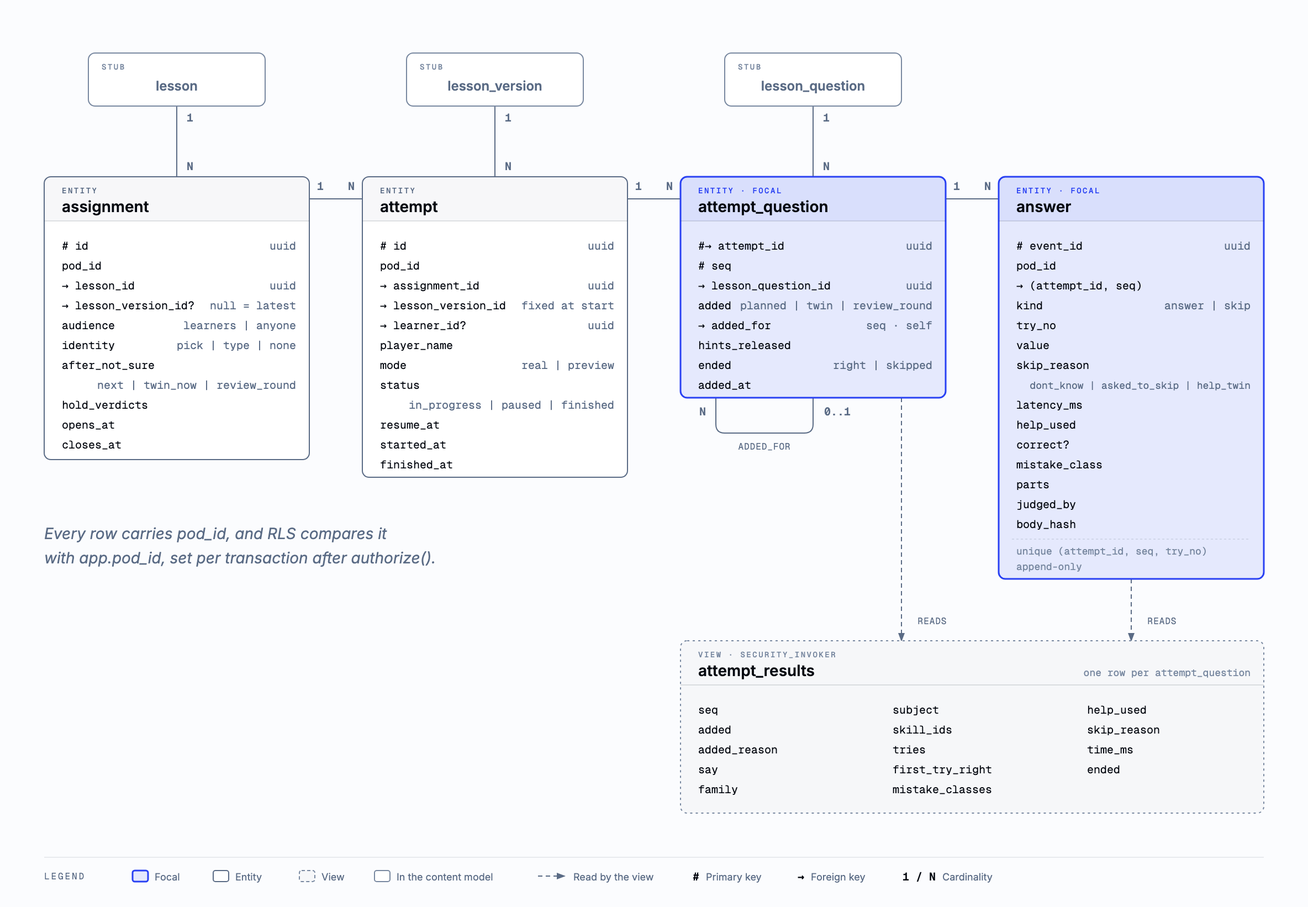
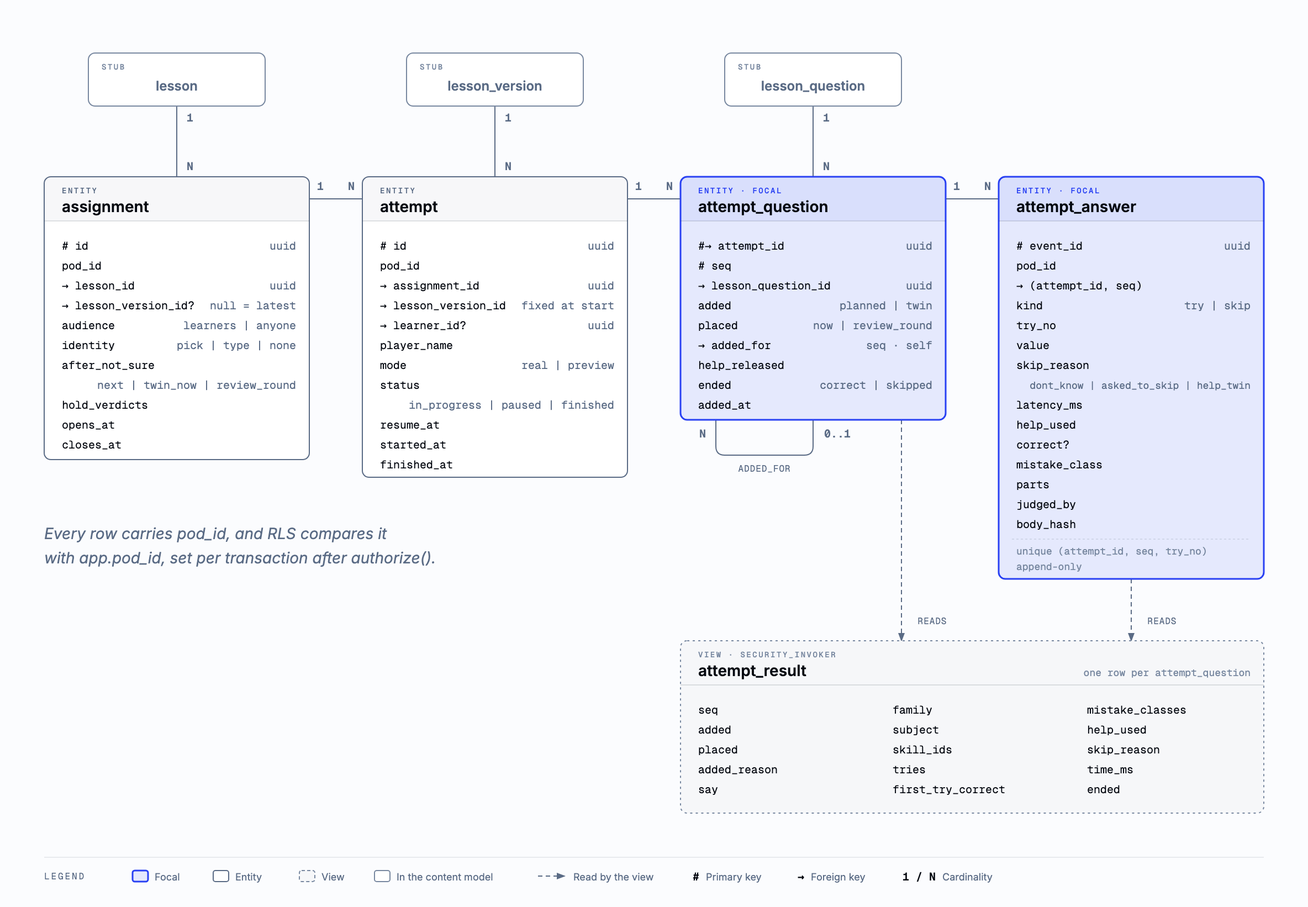
dl-e8ov.2.32.1: data model and API rules, and the renames they make

diff --git a/docs/research/assets/core-v0-play.html b/docs/research/assets/core-v0-play.html
@@ -63,7 +63,7 @@
     <h1>Core v0: play and evidence</h1>
     <svg viewBox="0 0 1184 820" xmlns="http://www.w3.org/2000/svg" role="img" aria-labelledby="core-v0-play-title core-v0-play-desc">
       <title id="core-v0-play-title">Core v0: play and evidence</title>
-      <desc id="core-v0-play-desc">Entity-relationship model of core v0 play: an assignment of a lesson opens attempts, each attempt holds an ordered list of attempt questions, each question collects append-only answers, and the attempt_results view reads both.</desc>
+      <desc id="core-v0-play-desc">Entity-relationship model of core v0 play: an assignment of a lesson opens attempts, each attempt holds an ordered list of attempt questions, each question collects append-only attempt answers, and the attempt_result view reads both.</desc>
       <defs>
         <marker id="arrow" markerWidth="8" markerHeight="6" refX="7" refY="3" orient="auto"><polygon points="0 0, 8 3, 0 6" fill="#5a6b85"/></marker>
         <marker id="arrow-accent" markerWidth="8" markerHeight="6" refX="7" refY="3" orient="auto"><polygon points="0 0, 8 3, 0 6" fill="#2941f3"/></marker>
@@ -77,8 +77,8 @@
       <line x1="280" y1="180" x2="328" y2="180" stroke="#5a6b85" stroke-width="1"/>
       <line x1="568" y1="180" x2="616" y2="180" stroke="#5a6b85" stroke-width="1"/>
       <line x1="856" y1="180" x2="904" y2="180" stroke="#5a6b85" stroke-width="1"/>
-      <path d="M 648,360 V 384 Q 648,392 656,392 H 728 Q 736,392 736,384 V 360" fill="none" stroke="#5a6b85" stroke-width="1"/>
-      <line x1="816" y1="360" x2="816" y2="580" stroke="#5a6b85" stroke-width="1" stroke-dasharray="4,3" marker-end="url(#arrow)"/>
+      <path d="M 648,380 V 404 Q 648,412 656,412 H 728 Q 736,412 736,404 V 380" fill="none" stroke="#5a6b85" stroke-width="1"/>
+      <line x1="816" y1="380" x2="816" y2="580" stroke="#5a6b85" stroke-width="1" stroke-dasharray="4,3" marker-end="url(#arrow)"/>
       <line x1="1024" y1="524" x2="1024" y2="580" stroke="#5a6b85" stroke-width="1" stroke-dasharray="4,3" marker-end="url(#arrow)"/>
       <!-- cardinality and labels -->
       <rect x="166" y="100" width="12" height="12" rx="2" fill="#fbfcfe"/>
@@ -105,12 +105,12 @@
       <text x="866.0" y="172" fill="#5a6b85" font-size="10" font-family="'Geist Mono', ui-monospace, monospace" font-weight="600" text-anchor="middle">1</text>
       <rect x="888" y="162" width="12" height="12" rx="2" fill="#fbfcfe"/>
       <text x="894.0" y="172" fill="#5a6b85" font-size="10" font-family="'Geist Mono', ui-monospace, monospace" font-weight="600" text-anchor="middle">N</text>
-      <rect x="630" y="366" width="12" height="12" rx="2" fill="#fbfcfe"/>
-      <text x="636.0" y="376" fill="#5a6b85" font-size="10" font-family="'Geist Mono', ui-monospace, monospace" font-weight="600" text-anchor="middle">N</text>
-      <rect x="742" y="366" width="32" height="12" rx="2" fill="#fbfcfe"/>
-      <text x="758.0" y="376" fill="#5a6b85" font-size="10" font-family="'Geist Mono', ui-monospace, monospace" font-weight="600" text-anchor="middle">0..1</text>
-      <rect x="660.0" y="398" width="64" height="12" rx="2" fill="#fbfcfe"/>
-      <text x="692.0" y="407" fill="#5a6b85" font-size="8" font-family="'Geist Mono', ui-monospace, monospace" text-anchor="middle" letter-spacing="0.06em">ADDED_FOR</text>
+      <rect x="630" y="386" width="12" height="12" rx="2" fill="#fbfcfe"/>
+      <text x="636.0" y="396" fill="#5a6b85" font-size="10" font-family="'Geist Mono', ui-monospace, monospace" font-weight="600" text-anchor="middle">N</text>
+      <rect x="742" y="386" width="32" height="12" rx="2" fill="#fbfcfe"/>
+      <text x="758.0" y="396" fill="#5a6b85" font-size="10" font-family="'Geist Mono', ui-monospace, monospace" font-weight="600" text-anchor="middle">0..1</text>
+      <rect x="660.0" y="418" width="64" height="12" rx="2" fill="#fbfcfe"/>
+      <text x="692.0" y="427" fill="#5a6b85" font-size="8" font-family="'Geist Mono', ui-monospace, monospace" text-anchor="middle" letter-spacing="0.06em">ADDED_FOR</text>
       <rect x="824" y="556" width="40" height="12" rx="2" fill="#fbfcfe"/>
       <text x="844" y="565" fill="#5a6b85" font-size="8" font-family="'Geist Mono', ui-monospace, monospace" text-anchor="middle" letter-spacing="0.06em">READS</text>
       <rect x="1032" y="556" width="40" height="12" rx="2" fill="#fbfcfe"/>
@@ -173,8 +173,8 @@
       <text x="344" y="388" fill="#040810" font-size="10" font-family="'Geist Mono', ui-monospace, monospace">resume_at</text>
       <text x="344" y="406" fill="#040810" font-size="10" font-family="'Geist Mono', ui-monospace, monospace">started_at</text>
       <text x="344" y="424" fill="#040810" font-size="10" font-family="'Geist Mono', ui-monospace, monospace">finished_at</text>
-      <rect x="616" y="160" width="240" height="200" rx="6" fill="#fbfcfe"/>
-      <rect x="616" y="160" width="240" height="200" rx="6" fill="rgba(41,65,243,0.10)" stroke="#2941f3" stroke-width="1.5"/>
+      <rect x="616" y="160" width="240" height="220" rx="6" fill="#fbfcfe"/>
+      <rect x="616" y="160" width="240" height="220" rx="6" fill="rgba(41,65,243,0.10)" stroke="#2941f3" stroke-width="1.5"/>
       <path d="M 622,160 H 850 Q 856,160 856,166 V 200 H 616 V 166 Q 616,160 622,160 Z" fill="rgba(41,65,243,0.06)"/>
       <line x1="616" y1="200" x2="856" y2="200" stroke="rgba(9,22,40,0.12)" stroke-width="1"/>
       <text x="632" y="175" fill="#2941f3" font-size="7" font-family="'Geist Mono', ui-monospace, monospace" font-weight="500" letter-spacing="0.18em">ENTITY · FOCAL</text>
@@ -185,25 +185,27 @@
       <text x="632" y="262" fill="#040810" font-size="10" font-family="'Geist Mono', ui-monospace, monospace">→ lesson_question_id</text>
       <text x="844" y="262" fill="#5a6b85" font-size="10" font-family="'Geist Mono', ui-monospace, monospace" text-anchor="end">uuid</text>
       <text x="632" y="280" fill="#040810" font-size="10" font-family="'Geist Mono', ui-monospace, monospace">added</text>
-      <text x="844" y="280" fill="#5a6b85" font-size="10" font-family="'Geist Mono', ui-monospace, monospace" text-anchor="end">planned | twin | review_round</text>
-      <text x="632" y="298" fill="#040810" font-size="10" font-family="'Geist Mono', ui-monospace, monospace">→ added_for</text>
-      <text x="844" y="298" fill="#5a6b85" font-size="10" font-family="'Geist Mono', ui-monospace, monospace" text-anchor="end">seq · self</text>
-      <text x="632" y="316" fill="#040810" font-size="10" font-family="'Geist Mono', ui-monospace, monospace">hints_released</text>
-      <text x="632" y="334" fill="#040810" font-size="10" font-family="'Geist Mono', ui-monospace, monospace">ended</text>
-      <text x="844" y="334" fill="#5a6b85" font-size="10" font-family="'Geist Mono', ui-monospace, monospace" text-anchor="end">right | skipped</text>
-      <text x="632" y="352" fill="#040810" font-size="10" font-family="'Geist Mono', ui-monospace, monospace">added_at</text>
+      <text x="844" y="280" fill="#5a6b85" font-size="10" font-family="'Geist Mono', ui-monospace, monospace" text-anchor="end">planned | twin</text>
+      <text x="632" y="298" fill="#040810" font-size="10" font-family="'Geist Mono', ui-monospace, monospace">placed</text>
+      <text x="844" y="298" fill="#5a6b85" font-size="10" font-family="'Geist Mono', ui-monospace, monospace" text-anchor="end">now | review_round</text>
+      <text x="632" y="316" fill="#040810" font-size="10" font-family="'Geist Mono', ui-monospace, monospace">→ added_for</text>
+      <text x="844" y="316" fill="#5a6b85" font-size="10" font-family="'Geist Mono', ui-monospace, monospace" text-anchor="end">seq · self</text>
+      <text x="632" y="334" fill="#040810" font-size="10" font-family="'Geist Mono', ui-monospace, monospace">help_released</text>
+      <text x="632" y="352" fill="#040810" font-size="10" font-family="'Geist Mono', ui-monospace, monospace">ended</text>
+      <text x="844" y="352" fill="#5a6b85" font-size="10" font-family="'Geist Mono', ui-monospace, monospace" text-anchor="end">correct | skipped</text>
+      <text x="632" y="370" fill="#040810" font-size="10" font-family="'Geist Mono', ui-monospace, monospace">added_at</text>
       <rect x="904" y="160" width="240" height="364" rx="6" fill="#fbfcfe"/>
       <rect x="904" y="160" width="240" height="364" rx="6" fill="rgba(41,65,243,0.10)" stroke="#2941f3" stroke-width="1.5"/>
       <path d="M 910,160 H 1138 Q 1144,160 1144,166 V 200 H 904 V 166 Q 904,160 910,160 Z" fill="rgba(41,65,243,0.06)"/>
       <line x1="904" y1="200" x2="1144" y2="200" stroke="rgba(9,22,40,0.12)" stroke-width="1"/>
       <text x="920" y="175" fill="#2941f3" font-size="7" font-family="'Geist Mono', ui-monospace, monospace" font-weight="500" letter-spacing="0.18em">ENTITY · FOCAL</text>
-      <text x="920" y="192" fill="#040810" font-size="14" font-family="'Inter', system-ui, sans-serif" font-weight="600">answer</text>
+      <text x="920" y="192" fill="#040810" font-size="14" font-family="'Inter', system-ui, sans-serif" font-weight="600">attempt_answer</text>
       <text x="920" y="226" fill="#040810" font-size="10" font-family="'Geist Mono', ui-monospace, monospace"># event_id</text>
       <text x="1132" y="226" fill="#5a6b85" font-size="10" font-family="'Geist Mono', ui-monospace, monospace" text-anchor="end">uuid</text>
       <text x="920" y="244" fill="#040810" font-size="10" font-family="'Geist Mono', ui-monospace, monospace">pod_id</text>
       <text x="920" y="262" fill="#040810" font-size="10" font-family="'Geist Mono', ui-monospace, monospace">→ (attempt_id, seq)</text>
       <text x="920" y="280" fill="#040810" font-size="10" font-family="'Geist Mono', ui-monospace, monospace">kind</text>
-      <text x="1132" y="280" fill="#5a6b85" font-size="10" font-family="'Geist Mono', ui-monospace, monospace" text-anchor="end">answer | skip</text>
+      <text x="1132" y="280" fill="#5a6b85" font-size="10" font-family="'Geist Mono', ui-monospace, monospace" text-anchor="end">try | skip</text>
       <text x="920" y="298" fill="#040810" font-size="10" font-family="'Geist Mono', ui-monospace, monospace">try_no</text>
       <text x="920" y="316" fill="#040810" font-size="10" font-family="'Geist Mono', ui-monospace, monospace">value</text>
       <text x="920" y="334" fill="#040810" font-size="10" font-family="'Geist Mono', ui-monospace, monospace">skip_reason</text>
@@ -222,22 +224,23 @@
       <rect x="616" y="580" width="528" height="156" rx="6" fill="rgba(4,8,16,0.02)" stroke="#7888a0" stroke-width="1" stroke-dasharray="2,3"/>
       <line x1="616" y1="620" x2="1144" y2="620" stroke="rgba(9,22,40,0.12)" stroke-width="1"/>
       <text x="632" y="595" fill="#7888a0" font-size="7" font-family="'Geist Mono', ui-monospace, monospace" font-weight="500" letter-spacing="0.18em">VIEW · SECURITY_INVOKER</text>
-      <text x="632" y="612" fill="#040810" font-size="14" font-family="'Inter', system-ui, sans-serif" font-weight="600">attempt_results</text>
+      <text x="632" y="612" fill="#040810" font-size="14" font-family="'Inter', system-ui, sans-serif" font-weight="600">attempt_result</text>
       <text x="1132" y="612" fill="#7888a0" font-size="9" font-family="'Geist Mono', ui-monospace, monospace" text-anchor="end">one row per attempt_question</text>
       <text x="632" y="646" fill="#040810" font-size="10" font-family="'Geist Mono', ui-monospace, monospace">seq</text>
       <text x="632" y="664" fill="#040810" font-size="10" font-family="'Geist Mono', ui-monospace, monospace">added</text>
-      <text x="632" y="682" fill="#040810" font-size="10" font-family="'Geist Mono', ui-monospace, monospace">added_reason</text>
-      <text x="632" y="700" fill="#040810" font-size="10" font-family="'Geist Mono', ui-monospace, monospace">say</text>
-      <text x="632" y="718" fill="#040810" font-size="10" font-family="'Geist Mono', ui-monospace, monospace">family</text>
-      <text x="808" y="646" fill="#040810" font-size="10" font-family="'Geist Mono', ui-monospace, monospace">subject</text>
-      <text x="808" y="664" fill="#040810" font-size="10" font-family="'Geist Mono', ui-monospace, monospace">skill_ids</text>
-      <text x="808" y="682" fill="#040810" font-size="10" font-family="'Geist Mono', ui-monospace, monospace">tries</text>
-      <text x="808" y="700" fill="#040810" font-size="10" font-family="'Geist Mono', ui-monospace, monospace">first_try_right</text>
-      <text x="808" y="718" fill="#040810" font-size="10" font-family="'Geist Mono', ui-monospace, monospace">mistake_classes</text>
-      <text x="984" y="646" fill="#040810" font-size="10" font-family="'Geist Mono', ui-monospace, monospace">help_used</text>
-      <text x="984" y="664" fill="#040810" font-size="10" font-family="'Geist Mono', ui-monospace, monospace">skip_reason</text>
-      <text x="984" y="682" fill="#040810" font-size="10" font-family="'Geist Mono', ui-monospace, monospace">time_ms</text>
-      <text x="984" y="700" fill="#040810" font-size="10" font-family="'Geist Mono', ui-monospace, monospace">ended</text>
+      <text x="632" y="682" fill="#040810" font-size="10" font-family="'Geist Mono', ui-monospace, monospace">placed</text>
+      <text x="632" y="700" fill="#040810" font-size="10" font-family="'Geist Mono', ui-monospace, monospace">added_reason</text>
+      <text x="632" y="718" fill="#040810" font-size="10" font-family="'Geist Mono', ui-monospace, monospace">say</text>
+      <text x="808" y="646" fill="#040810" font-size="10" font-family="'Geist Mono', ui-monospace, monospace">family</text>
+      <text x="808" y="664" fill="#040810" font-size="10" font-family="'Geist Mono', ui-monospace, monospace">subject</text>
+      <text x="808" y="682" fill="#040810" font-size="10" font-family="'Geist Mono', ui-monospace, monospace">skill_ids</text>
+      <text x="808" y="700" fill="#040810" font-size="10" font-family="'Geist Mono', ui-monospace, monospace">tries</text>
+      <text x="808" y="718" fill="#040810" font-size="10" font-family="'Geist Mono', ui-monospace, monospace">first_try_correct</text>
+      <text x="984" y="646" fill="#040810" font-size="10" font-family="'Geist Mono', ui-monospace, monospace">mistake_classes</text>
+      <text x="984" y="664" fill="#040810" font-size="10" font-family="'Geist Mono', ui-monospace, monospace">help_used</text>
+      <text x="984" y="682" fill="#040810" font-size="10" font-family="'Geist Mono', ui-monospace, monospace">skip_reason</text>
+      <text x="984" y="700" fill="#040810" font-size="10" font-family="'Geist Mono', ui-monospace, monospace">time_ms</text>
+      <text x="984" y="718" fill="#040810" font-size="10" font-family="'Geist Mono', ui-monospace, monospace">ended</text>
       <text x="40" y="488" fill="#5a6b85" font-size="14" font-family="'Inter', system-ui, sans-serif" font-style="italic">Every row carries pod_id, and RLS compares it</text>
       <text x="40" y="510" fill="#5a6b85" font-size="14" font-family="'Inter', system-ui, sans-serif" font-style="italic">with app.pod_id, set per transaction after authorize().</text>
       <line x1="40" y1="776" x2="1144" y2="776" stroke="rgba(9,22,40,0.10)" stroke-width="0.8"/>
@@ -259,7 +262,7 @@
       <text x="817.0" y="797" fill="#040810" font-size="10" font-family="'Geist Mono', ui-monospace, monospace" font-weight="600">1 / N</text>
       <text x="853.0" y="797" fill="#5a6b85" font-size="9" font-family="'Inter', system-ui, sans-serif">Cardinality</text>
     </svg>
-    <p class="caption">Five entities and three stubs from the content model. attempt_question and answer are the evidence a parent sees.</p>
+    <p class="caption">Five entities and three stubs from the content model. attempt_question and attempt_answer are the evidence a parent sees.</p>
   </div>
 </body>
 </html>

diff --git a/docs/worklog/dl-e8ov.2.32/2026-10-27-wave-1.md b/docs/worklog/dl-e8ov.2.32/2026-10-27-wave-1.md
@@ -7,7 +7,7 @@ that wrote this, 2026-10-27. Wave label: `wave:dl-e8ov.2.32-1`.
 
 The playground's player plays a lesson from Postgres through a local `apps/api` under `/api/v1`.
 After the lesson it lists every attempted question, with a basic analysis computed by the
-`attempt_results` view. The model and the names are in `docs/research/core-data-model.md`
+`attempt_result` view. The model and the names are in `docs/research/core-data-model.md`
 (`dl-e8ov.5.34`), amended in the lead's PR to the decisions below.
 
 ![Wave 1 order](../../research/assets/wave-1-order.svg)
@@ -23,6 +23,7 @@ were answered on 2026-10-27, so no lane waits on an owner decision.
 - `2026-10-27-the-v0-attempt-rules-questions-only-on-the-wire-the-api-v1-route`
 - `2026-10-27-a-lesson-question-carries-the-help-ladder-its-credit-and-structu`
 - `2026-10-27-wave-1-of-the-core-data-model-lands-every-data-model-decision-in`
+- `2026-10-27-jadwigo-s-data-model-and-api-follow-one-set-of-naming-and-design`: the rules in `packages/contracts/RULES.md`, and the renames below
 - Those the epic cites already: `2026-10-27-a-lesson-is-a-dynamic-set-of-lesson-questions-that-can-grow-duri`,
   `2026-10-27-v0-of-the-data-model-is-lesson-assignment-and-attempt-with-their`,
   `2026-10-27-jadwigo-s-rest-api-is-versioned-under-api-v1-and-names-put-the-o`,
@@ -36,12 +37,12 @@ In short:
 | Topic | In force |
 | --- | --- |
 | Ids | `uuid` columns, v4 by default (`gen_random_uuid()`). On the wire: `<prefix>` and 26 lowercase Crockford base32 characters (`les_01jbx…`). The lesson import uses uuid v5 of (pod, file id, position). `event_id` is the page's bare uuid. |
-| Hints | A counter, `attempt_question.hints_released`, copied into `answer.help_used`. |
+| Help | A counter, `attempt_question.help_released`, copied into `attempt_answer.help_used`. |
 | Row-level security | `app.pod_id`, set per transaction by the API after `authorize()`. The API connects as a limited role. |
 | Wire | No steps. A v0 lesson is a list of questions. `/api/v1` speaks `seq` and `try_no`; the david-learns HttpApi maps the player's fields. |
-| Routes | `POST /api/v1/assignments/{id}/attempts`, `GET /api/v1/attempts/{id}`, `POST /api/v1/attempts/{id}/answers`, `POST /api/v1/attempts/{id}/questions/{seq}/hints`, `PATCH /api/v1/attempts/{id}` (`status`), `GET /api/v1/attempts/{id}/results`. The server finishes an attempt. |
-| Growth | `assignment.after_not_sure` (`next`, `twin_now`, `review_round`) and `assignment.hold_verdicts`. Rung 4 of the help ladder ends the question skipped (`help_twin`) and appends a twin. A twin is asked once per attempt. |
-| Answers | Append-only. `unique (attempt_id, seq, try_no)`: a 2nd event id for one try is 409 `AnswerConflict`. No `abandoned` in v0. |
+| Routes | `POST /api/v1/assignments/{id}/attempts`, `GET /api/v1/attempts/{id}`, `POST /api/v1/attempts/{id}/answers`, `POST /api/v1/attempts/{id}/questions/{seq}/help`, `PATCH /api/v1/attempts/{id}` (`status`), `GET /api/v1/attempts/{id}/results`. The server finishes an attempt. |
+| Growth | `assignment.after_not_sure` (`next`, `twin_now`, `review_round`) and `assignment.hold_verdicts`. An added question is `added = twin` with `placed` `now` or `review_round`. Rung 4 of the help ladder ends the question skipped (`help_twin`) and appends a twin. A twin is asked once per attempt. |
+| Attempt answers | `attempt_answer`, append-only, `kind` `try` or `skip`. `unique (attempt_id, seq, try_no)`: a 2nd event id for one try is 409 `AnswerConflict`. An attempt question ends `correct` or `skipped`; no `abandoned` in v0. |
 | Lesson question | `help` (the ladder with Khan's hints, no twin), `credit`, `subject` (enum), `grade`, `skill_ids` (checked pattern, GIN). `lesson` has `category`, `subject`, `grade` and `skill_ids`. No `can_do`, no per-question reason. |
 
 ## The lead's PR
@@ -53,13 +54,13 @@ In short:
   - the id codec (uuid to `<prefix>` + base32 and back, with a property test) and the branded ids `pod_`, `lrn_`, `les_`, `lesv_`, `lq_`, `asg_`, `att_`;
   - the family data, key and value schemas, ported from david-learns `frontend/src/families/*/model.ts` (choose, enter, slots, sequence, group, place, explain), with `Verdict` and `PartVerdict`;
   - `Help` and `Credit`, the 10 record schemas, `Subject`, `SkillId` and the `AttemptResult` row;
-  - the answer envelope, `AnswerResult`, `HintResult` and the error envelope;
+  - the attempt answer envelope, `AttemptAnswerResult`, `HelpResult` and the error envelope;
   - the `/api/v1` route table, named once;
-  - a naming test that fails on "step" or on a name that doesn't put its owner first, in schema keys, route paths and migration identifiers;
+  - `RULES.md`, the data model and API rules, and `src/naming.test.ts`, which fails every rule marked tested in it, across schema keys, route paths and migration identifiers;
   - JSON Schema snapshots. `learner-id.json` changes form, which is a one-way door, called out in the PR.
 - **`supabase/`**
-  - the core v0 migration: 10 tables and `attempt_results` (`security_invoker`), keys and checks;
-  - write-once triggers on `answer`, `lesson_question`, a published `lesson_version` and its question rows;
+  - the core v0 migration: 10 tables and the `attempt_result` view (`security_invoker`), keys and checks;
+  - write-once triggers on `attempt_answer`, `lesson_question`, a published `lesson_version` and its question rows;
   - `app.current_pod_id()`, row-level security on every table, and the `jadwigo_api` role;
   - `tests/shim.sql` (Supabase's roles, the auth schema, `auth.uid()` and `auth.jwt()`) and the pgTAP tests.
 - **`packages/store`**: `store.ts` (the v0 Store interface, one method per access pattern, scoped to a pod), `memory.ts` (InMemoryStore), `store.contract.ts` (the shared suite, which `store.test.ts` runs on InMemoryStore), and a `postgres.ts` stub. The package gains Kysely and pg.
@@ -91,7 +92,7 @@ in the lead's PR.
 1. The design note `dl-e8ov.5.34` merges, then the lead's PR.
 2. store, core and import run in parallel. import tests on InMemoryStore, so it doesn't wait for PostgresStore.
 3. api, after core and import. Its route tests run on InMemoryStore under `make check`, and it uses PostgresStore when `DATABASE_URL` is set.
-4. playground, after api and store. It proves Postgres end to end: equal-groups in DB mode, with a miss, Not sure yet and its twin, pause, reload, resume and finish; `psql` shows the twin's row; the results page matches `attempt_results`.
+4. playground, after api and store. It proves Postgres end to end: equal-groups in DB mode, with a miss, Not sure yet and its twin, pause, reload, resume and finish; `psql` shows the twin's row; the results page matches `attempt_result`.
 
 ### The owner decisions and what they held
 
@@ -106,7 +107,7 @@ While they were open, only `dl-5ssh.34.34` and the core lane could have started.
 ## The diagrams
 
 - [Content: pod, learner, lesson, its versions and lesson questions](../../research/assets/core-v0-content.svg)
-- [Play and evidence: assignment, attempt, attempt question, answer, attempt_results](../../research/assets/core-v0-play.svg)
+- [Play and evidence: assignment, attempt, attempt question, attempt answer, attempt_result](../../research/assets/core-v0-play.svg)
 - [Wave 1 order](../../research/assets/wave-1-order.svg)
 
 Each has an `.html` source beside it, made with the diagram-design skill on the `medallion` profile.
@@ -116,5 +117,5 @@ Each has an `.html` source beside it, made with the diagram-design skill on the 
 Over and above AGENTS.md "When to stop":
 
 - A gap in a contract, the migration or the Store interface goes to the lead as a message, never as an edit.
-- No "step" in any jadwigo name, route or column.
+- Every name, column and route follows `packages/contracts/RULES.md`. A name the rules don't settle goes to the lead.
 - No family member's name anywhere. The david-learns lesson sources carry one in a header comment, so the JSON export drops comments. Grep before you commit; gitleaks refuses it too.

diff --git a/packages/contracts/RULES.md b/packages/contracts/RULES.md
@@ -1,0 +1,92 @@
+# Data model and API rules
+
+How jadwigo names its records, columns, types and routes, and how its API behaves. They apply to
+every layer: SQL in `supabase/migrations`, Zod in this package, `/api/v1` routes, and `jw`. When a
+layer and this file disagree, this file wins and the layer is fixed.
+
+Decided by the owner on 2026-10-27, decision
+`jadwigo-platform/decisions/2026-10-27-jadwigo-s-data-model-and-api-follow-one-set-of-naming-and-design`.
+The words themselves are in the root `GLOSSARY.md`. Rules marked **(tested)** fail `src/naming.test.ts`.
+
+## Names
+
+1. **A record that belongs to another is named owner first:** `<owner>_<thing>`. It has no identity
+   outside its owner: `lesson_version`, `lesson_version_question`, `lesson_question`,
+   `attempt_question`, `attempt_answer`, `attempt_result`. A record that stands on its own is a bare
+   noun: `pod`, `learner`, `lesson`, `assignment`, `attempt`. Never `version_lesson`. **(tested)**
+2. **Singular, `snake_case`** for tables, views, columns and Zod fields. A TypeScript type is the table
+   name in `PascalCase`: `attempt_answer` is `AttemptAnswer`. **(tested)**
+3. **One word for one thing.** Each word is the one in `GLOSSARY.md`, and the others are refused: **(tested)**
+
+   | Use | Never |
+   | --- | --- |
+   | question | step, item, task, exercise |
+   | help (the ladder, its release, its use) | hint, except `help.hints[]`, Khan's cards inside the ladder |
+   | correct | right, ok, success |
+   | try (`try_no`) | attempt_no; an attempt is a record |
+   | attempt | session, play |
+   | skip | pass |
+
+4. **Keys:** a record's own key is `id`. A foreign key is `<record>_id`, as in `lesson_question_id`. A
+   reference to the same table names the relation instead: `twin_of`, `added_for`. **(tested)**
+5. **An enum says one thing.** Its values are lowercase `snake_case` and answer one question. What a
+   row is and where it goes are 2 columns: `added` (`planned | twin`) and `placed`
+   (`now | review_round`).
+6. **Shapes of a column name:**
+   - a time is `<verb>_at` (`published_at`, `answered_at`);
+   - a duration carries its unit (`latency_ms`, `time_ms`);
+   - a count is `<thing>_<verb>` (`help_released`) or a plural noun (`tries`);
+   - a boolean is an adjective or a verb phrase (`correct`, `hold_verdicts`), never `is_`;
+   - a jsonb column is a noun for what it holds (`data`, `key`, `help`, `credit`, `based_on`). **(tested: `_at`, `_ms`)**
+7. **Order has 3 words:**
+   - `position` is a question's place in a version's plan;
+   - `seq` is its place in what an attempt actually played;
+   - `try_no` is a try within one attempt question.
+8. **Ids** are `uuid` columns, v4 by default. On the wire and in `jw`, an id is its prefix plus 26
+   lowercase Crockford base32 characters. The prefixes are registered in `src/ids.ts`: `pod_`,
+   `lrn_`, `les_`, `lesv_`, `lq_`, `asg_`, `att_`. A record keyed by its owner's key, such as
+   (`attempt_id`, `seq`), has no prefix. `event_id` is the page's bare uuid. **(tested: every id schema uses the codec)**
+9. **Words from the data-model drop's Names page win** where it has one: `resume_at`, `player_name`,
+   `mode`, `try_no`, `skip_reason`, `mistake_class`, `judged_by`, `revises`.
+
+## Records
+
+10. **Content is write-once and versioned.** An edit to a `lesson_question` makes a new row. An edit
+    to a lesson makes its next `lesson_version`. Neither is ever updated once published, and triggers
+    refuse the update.
+11. **Evidence is append-only.** `attempt_answer` rows are never updated or deleted. On
+    `attempt_question`, only `help_released` and `ended` change. On `attempt`, only `status`,
+    `resume_at` and `finished_at` change.
+12. **Every row carries `pod_id`**, except `pod` itself, and row-level security compares it with
+    the caller's pod. A view is created `with (security_invoker = true)`.
+13. **Every edge points from evidence up to content**, never back down. A later layer attaches as a
+    new table or a nullable column, without rewriting the rows above it.
+
+## API
+
+14. **Every route is under `/api/v1/`.** A breaking change to a route's contract adds `/api/v2/` beside
+    it, and the old one stays until nothing calls it. `/api/health` sits outside the version.
+15. **A path is plural nouns of records, nested by ownership.** The parent segment names the owner,
+    so the child drops it: `attempt_answer` is `/attempts/{id}/answers`, and `attempt_question` is
+    `/attempts/{id}/questions/{seq}`. A name of 2 or more words is kebab-case in a path
+    (`/lesson-questions`). No verbs in a path. **(tested)**
+16. **Methods:**
+    - `GET` reads and changes nothing;
+    - `POST` creates or appends (`/attempts`, `/answers`, `/help`);
+    - `PATCH` changes a field the record allows to change (`attempt.status`);
+    - v0 has no `PUT` or `DELETE`, because evidence is append-only.
+17. **Bodies are JSON whose fields are the column names**, in `snake_case`. Ids are prefixed, and
+    times are ISO 8601 in UTC. A field the server owns (a verdict, `seq` for an added question, a
+    timestamp) is refused when a client sends it.
+18. **Every input and output is a schema here**, and the route table is named once, in `src/routes.ts`.
+    `apps/api` and `packages/api-client` import it, and a handler parses and never trusts.
+19. **Writes from the page are idempotent by `event_id`.**
+    - A replay with the same body returns the stored result.
+    - The same `event_id` with another body is 409 `EventIdMismatch`.
+    - A 2nd `event_id` for the same try is 409 `AnswerConflict`.
+20. **Errors are `{error: {type, message}}`.** `type` is a `PascalCase` name listed here: 400 for a
+    body that fails its schema, 404 for an unknown record, 409 for a conflict with stored state.
+    `message` is for a person and never names the key.
+21. **The server owns the lesson's course.** It decides the next question, a growth question and when
+    an attempt finishes. A response never carries a question's `key` or help that has not been
+    released.

diff --git a/GLOSSARY.md b/GLOSSARY.md
@@ -14,9 +14,17 @@ inside the repo, and the outside sense gets a qualifier.
 | **skill** | the smallest thing a learner gets a level on, such as `maths.mul.7x8`. Reviewed or draft | an AI workflow; a Khan exercise |
 | **goal** | what a pod wants a learner to reach, made of skills | a curriculum |
 | **lesson** | prepared content a pod publishes, with versions. A published version never changes | a Khan lesson page |
-| **lesson script** | the steps of one lesson version, as `packages/contracts` defines them | |
+| **lesson version** | one published form of a lesson: the lesson questions it plans, in `position` order, and the spares growth may draw. Never changes | an edit in place |
+| **lesson question** | one question a lesson can ask: its family, what the page shows, the key and the help. Written once; an edit makes a new one | a step, an item, a task |
+| **lesson script** | the playground's authoring file for a lesson. Its import turns it into lesson questions and a version | the stored lesson |
+| **assignment** | a lesson sent to an audience, with its growth settings. A featured lesson is an assignment to anyone | a homework task |
 | **block** | one interaction inside a lesson, from an interaction family in `packages/lesson-kit` | a UI component |
 | **attempt** | one play of one lesson version: in progress, paused or finished | a session |
+| **attempt question** | one asking of a lesson question in one attempt, at its `seq`: why it was asked (`added`, `placed`), the help released, how it ended (`correct` or `skipped`) | the lesson question itself |
+| **attempt answer** | one try at an attempt question, or a skip. Never changed | a "response" |
+| **try** | one committed answer to one attempt question, counted by `try_no` | an attempt |
+| **help** | the ladder a lesson question carries (look, boost, almost, worked, and Khan's cards in `help.hints[]`), released one rung at a time | "hint", outside `help.hints[]` |
+| **correct** | the verdict on a try, and how an attempt question ends | "right" |
 | **question bank** | the credited question sets lessons are composed from. Lives outside git | fixtures |
 | **free tier** | anyone plays a featured lesson with no login | |
 

diff --git a/packages/contracts/AGENTS.md b/packages/contracts/AGENTS.md
@@ -10,6 +10,7 @@ Zod schemas for everything that crosses a boundary: ids, the lesson script, answ
 
 ## Rules here
 
+- Every name, record and route follows [`RULES.md`](RULES.md), the data model and API rules. `src/naming.test.ts` fails the ones a machine can check.
 - Ids are branded types; only the parsers here create them.
 - `schemas/*.json` are snapshots. Changing one is a one-way door: update with `vitest -u` on purpose and say so in the PR.
 - In a wave, contracts change only in the lead's step 0 PR.
